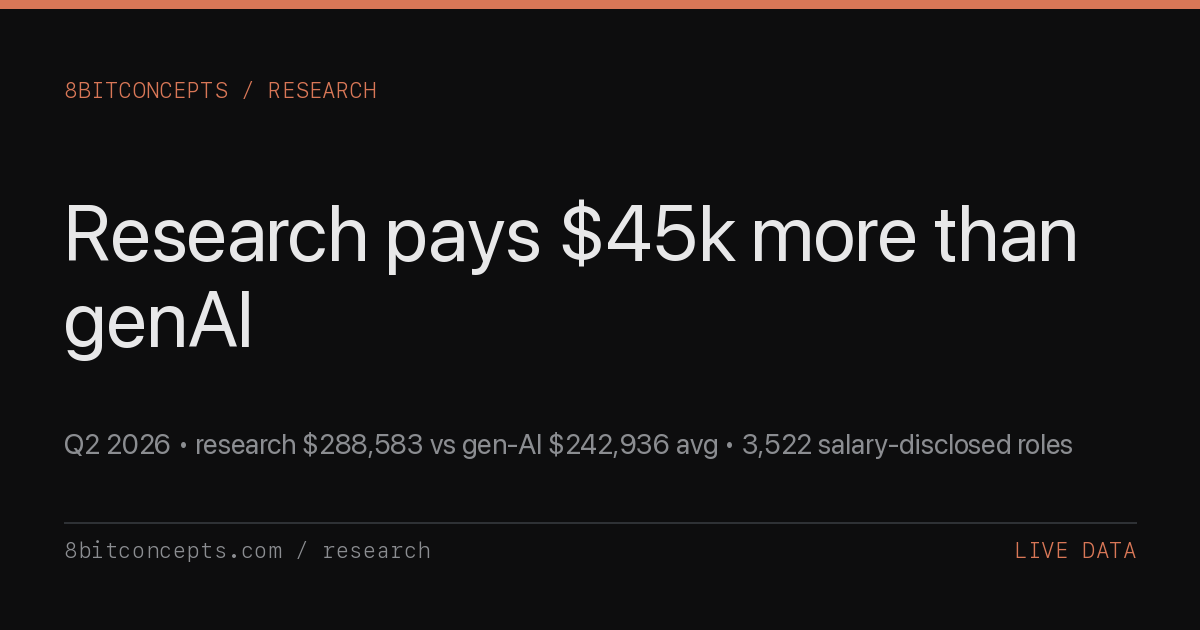
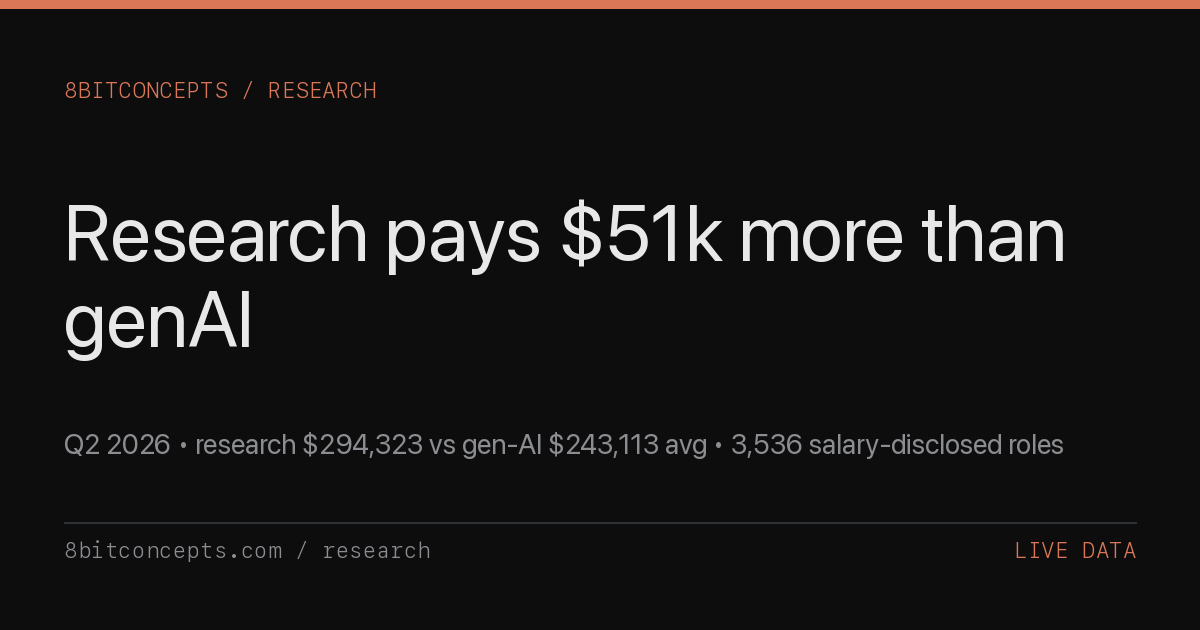
compensation-by-skill: auto-regenerate 2026-07-27

diff --git a/research/q2-2026-ai-compensation-by-skill.html b/research/q2-2026-ai-compensation-by-skill.html
@@ -5,11 +5,11 @@
   <meta name="viewport" content="width=device-width, initial-scale=1.0" />
   <meta name="referrer" content="strict-origin-when-cross-origin" />
   <meta name="color-scheme" content="dark light" />
-  <meta name="last-updated" content="2026-07-20" />
+  <meta name="last-updated" content="2026-07-27" />
   <title>Q2 2026 AI Engineering Compensation by Skill -- 8bitconcepts</title>
-  <meta name="description" content="Live AI engineering compensation by skill: top-paying tags, most in-demand tags, sweet-spot skills, salary by experience level, distribution across 3,522 salary-disclosed roles. Median $220,000. Auto-regenerated weekly from aidevboard.com API." />
+  <meta name="description" content="Live AI engineering compensation by skill: top-paying tags, most in-demand tags, sweet-spot skills, salary by experience level, distribution across 3,536 salary-disclosed roles. Median $220,000. Auto-regenerated weekly from aidevboard.com API." />
   <meta property="og:title" content="Q2 2026 AI Engineering Compensation by Skill -- 8bitconcepts" />
-  <meta property="og:description" content="Top-paying AI skill: research at $288,583. Most in-demand: agents (2,822 roles). Median $220,000. Sweet-spot tags where high demand meets high pay. Live data, 2026-07-20." />
+  <meta property="og:description" content="Top-paying AI skill: research at $294,323. Most in-demand: agents (2,837 roles). Median $220,000. Sweet-spot tags where high demand meets high pay. Live data, 2026-07-27." />
   <meta property="og:type" content="article" />
   <meta property="og:url" content="https://8bitconcepts.com/research/q2-2026-ai-compensation-by-skill.html" />
   <meta property="og:image" content="https://8bitconcepts.com/research/og/q2-2026-ai-compensation-by-skill.png" />
@@ -17,7 +17,7 @@
   <meta property="og:image:height" content="630" />
   <meta name="twitter:card" content="summary_large_image" />
   <meta name="twitter:title" content="Q2 2026 AI Engineering Compensation by Skill" />
-  <meta name="twitter:description" content="AI engineering compensation by skill: top-paying = $288,583 (research). Median $220,000 across 3,522 salary-disclosed roles. 2026-07-20." />
+  <meta name="twitter:description" content="AI engineering compensation by skill: top-paying = $294,323 (research). Median $220,000 across 3,536 salary-disclosed roles. 2026-07-27." />
   <meta name="twitter:image" content="https://8bitconcepts.com/research/og/q2-2026-ai-compensation-by-skill.png" />
   <link rel="canonical" href="https://8bitconcepts.com/research/q2-2026-ai-compensation-by-skill.html" />
   <link rel="preconnect" href="https://fonts.googleapis.com" />
@@ -434,10 +434,10 @@
     "@context": "https://schema.org",
     "@type": "Article",
     "headline": "Q2 2026 AI Engineering Compensation by Skill",
-    "description": "Live AI engineering compensation analysis from aidevboard.com: top-paying skill tags, most in-demand tags, sweet-spot skills (high demand + high pay), salary distribution, and experience-level breakdown across 3,522 salary-disclosed roles.",
+    "description": "Live AI engineering compensation analysis from aidevboard.com: top-paying skill tags, most in-demand tags, sweet-spot skills (high demand + high pay), salary distribution, and experience-level breakdown across 3,536 salary-disclosed roles.",
     "url": "https://8bitconcepts.com/research/q2-2026-ai-compensation-by-skill.html",
     "datePublished": "2026-04-17",
-    "dateModified": "2026-07-20",
+    "dateModified": "2026-07-27",
     "author": {"@type": "Organization", "name": "8bitconcepts", "url": "https://8bitconcepts.com"},
     "publisher": {"@type": "Organization", "name": "8bitconcepts", "url": "https://8bitconcepts.com"},
     "image": "https://8bitconcepts.com/research/og/q2-2026-ai-compensation-by-skill.png",
@@ -477,10 +477,10 @@
 
     <h1>Q2 2026 AI Engineering Compensation by Skill</h1>
 
-    <p class="subtitle">Live compensation data from 3,522 salary-disclosed AI/ML engineering roles across 500 companies, as of 2026-07-20. The top-paying skill tags out-earn the most in-demand tags by tens of thousands per year. Live data pulled from <a href="https://aidevboard.com/api/v1/stats">aidevboard.com/api/v1/stats</a>.</p>
+    <p class="subtitle">Live compensation data from 3,536 salary-disclosed AI/ML engineering roles across 504 companies, as of 2026-07-27. The top-paying skill tags out-earn the most in-demand tags by tens of thousands per year. Live data pulled from <a href="https://aidevboard.com/api/v1/stats">aidevboard.com/api/v1/stats</a>.</p>
 
     <div class="meta">
-      <span class="meta-date">2026-07-20</span>
+      <span class="meta-date">2026-07-27</span>
       <span class="meta-tag">Live Data</span>
       <span class="meta-read">~800 words</span>
     </div>
@@ -489,20 +489,20 @@
 
       <h2>Executive summary</h2>
 
-      <p>Research roles pay a $45k premium over generative-AI roles ($288,583 vs $242,936 avg), even though generative-AI has roughly 2.3x more openings (1,738 vs 764). Here's what the 3,522-posting compensation dataset tells us about where AI engineering compensation is actually flowing &mdash; and where agents and LLMs sit in the middle.</p>
+      <p>Research roles pay a $51k premium over generative-AI roles ($294,323 vs $243,113 avg), even though generative-AI has roughly 2.2x more openings (1,733 vs 775). Here's what the 3,536-posting compensation dataset tells us about where AI engineering compensation is actually flowing &mdash; and where agents and LLMs sit in the middle.</p>
 
       <div class="stat-row">
         <div class="stat-box">
-          <div class="stat-num">$288,583</div>
+          <div class="stat-num">$294,323</div>
           <div class="stat-label">avg salary for <code>research</code> &mdash; the top-paying skill tag with 100+ roles</div>
         </div>
         <div class="stat-box">
-          <div class="stat-num">2,822</div>
+          <div class="stat-num">2,837</div>
           <div class="stat-label">roles tagged <code>agents</code> &mdash; the most in-demand skill in the index</div>
         </div>
         <div class="stat-box">
           <div class="stat-num">$220,000</div>
-          <div class="stat-label">median advertised salary across 3,522 salary-disclosed roles</div>
+          <div class="stat-label">median advertised salary across 3,536 salary-disclosed roles</div>
         </div>
       </div>
 
@@ -519,16 +519,16 @@
           </tr>
         </thead>
         <tbody>
-          <tr><td><code>research</code></td><td class="num">764</td><td class="num">$288,583</td></tr>
-          <tr><td><code>reinforcement-learning</code></td><td class="num">546</td><td class="num">$282,232</td></tr>
-          <tr><td><code>search</code></td><td class="num">686</td><td class="num">$279,229</td></tr>
-          <tr><td><code>distributed-systems</code></td><td class="num">1,488</td><td class="num">$263,911</td></tr>
-          <tr><td><code>infrastructure</code></td><td class="num">644</td><td class="num">$256,154</td></tr>
-          <tr><td><code>pytorch</code></td><td class="num">1,013</td><td class="num">$252,477</td></tr>
-          <tr><td><code>fine-tuning</code></td><td class="num">832</td><td class="num">$251,136</td></tr>
-          <tr><td><code>llm</code></td><td class="num">2,652</td><td class="num">$248,704</td></tr>
-          <tr><td><code>gpu</code></td><td class="num">558</td><td class="num">$245,625</td></tr>
-          <tr><td><code>deep-learning</code></td><td class="num">769</td><td class="num">$244,202</td></tr>
+          <tr><td><code>research</code></td><td class="num">775</td><td class="num">$294,323</td></tr>
+          <tr><td><code>search</code></td><td class="num">660</td><td class="num">$285,335</td></tr>
+          <tr><td><code>reinforcement-learning</code></td><td class="num">546</td><td class="num">$282,688</td></tr>
+          <tr><td><code>distributed-systems</code></td><td class="num">1,487</td><td class="num">$266,998</td></tr>
+          <tr><td><code>infrastructure</code></td><td class="num">647</td><td class="num">$262,107</td></tr>
+          <tr><td><code>pytorch</code></td><td class="num">1,016</td><td class="num">$254,913</td></tr>
+          <tr><td><code>fine-tuning</code></td><td class="num">874</td><td class="num">$254,452</td></tr>
+          <tr><td><code>llm</code></td><td class="num">2,661</td><td class="num">$250,392</td></tr>
+          <tr><td><code>tensorflow</code></td><td class="num">451</td><td class="num">$245,417</td></tr>
+          <tr><td><code>deep-learning</code></td><td class="num">763</td><td class="num">$245,381</td></tr>
         </tbody>
       </table>
 
@@ -545,24 +545,24 @@
           </tr>
         </thead>
         <tbody>
-          <tr><td><code>agents</code></td><td class="num">2,822</td><td class="num">$233,694</td></tr>
-          <tr><td><code>llm</code></td><td class="num">2,652</td><td class="num">$248,704</td></tr>
-          <tr><td><code>generative-ai</code></td><td class="num">1,738</td><td class="num">$242,936</td></tr>
-          <tr><td><code>cloud</code></td><td class="num">1,628</td><td class="num">$229,253</td></tr>
-          <tr><td><code>distributed-systems</code></td><td class="num">1,488</td><td class="num">$263,911</td></tr>
-          <tr><td><code>payments</code></td><td class="num">1,371</td><td class="num">$207,989</td></tr>
-          <tr><td><code>data-pipeline</code></td><td class="num">1,223</td><td class="num">$240,184</td></tr>
-          <tr><td><code>healthcare</code></td><td class="num">1,191</td><td class="num">$212,969</td></tr>
-          <tr><td><code>robotics</code></td><td class="num">1,092</td><td class="num">$212,738</td></tr>
-          <tr><td><code>pytorch</code></td><td class="num">1,013</td><td class="num">$252,477</td></tr>
+          <tr><td><code>agents</code></td><td class="num">2,837</td><td class="num">$233,536</td></tr>
+          <tr><td><code>llm</code></td><td class="num">2,661</td><td class="num">$250,392</td></tr>
+          <tr><td><code>generative-ai</code></td><td class="num">1,733</td><td class="num">$243,113</td></tr>
+          <tr><td><code>cloud</code></td><td class="num">1,658</td><td class="num">$229,847</td></tr>
+          <tr><td><code>distributed-systems</code></td><td class="num">1,487</td><td class="num">$266,998</td></tr>
+          <tr><td><code>payments</code></td><td class="num">1,455</td><td class="num">$210,667</td></tr>
+          <tr><td><code>data-pipeline</code></td><td class="num">1,240</td><td class="num">$238,862</td></tr>
+          <tr><td><code>healthcare</code></td><td class="num">1,210</td><td class="num">$215,247</td></tr>
+          <tr><td><code>robotics</code></td><td class="num">1,105</td><td class="num">$214,345</td></tr>
+          <tr><td><code>pytorch</code></td><td class="num">1,016</td><td class="num">$254,913</td></tr>
         </tbody>
       </table>
 
       <h2>The gap: where demand meets pay</h2>
 
-      <p><strong>Sweet-spot tags &mdash; high demand <em>and</em> high pay.</strong> <code>llm</code> (2,652 roles, $248,704 avg), <code>generative-ai</code> (1,738 roles, $242,936 avg), <code>distributed-systems</code> (1,488 roles, $263,911 avg), <code>pytorch</code> (1,013 roles, $252,477 avg), <code>fine-tuning</code> (832 roles, $251,136 avg). These are the skills the market is willing to pay above-median for <em>and</em> hire above-median volumes of. If you're choosing what to learn next, this is where leverage compounds.</p>
+      <p><strong>Sweet-spot tags &mdash; high demand <em>and</em> high pay.</strong> <code>llm</code> (2,661 roles, $250,392 avg), <code>generative-ai</code> (1,733 roles, $243,113 avg), <code>distributed-systems</code> (1,487 roles, $266,998 avg), <code>pytorch</code> (1,016 roles, $254,913 avg), <code>fine-tuning</code> (874 roles, $254,452 avg). These are the skills the market is willing to pay above-median for <em>and</em> hire above-median volumes of. If you're choosing what to learn next, this is where leverage compounds.</p>
 
-      <p><strong>High demand, lower pay.</strong> <code>agents</code> (2,822 roles, $233,694 avg), <code>cloud</code> (1,628 roles, $229,253 avg), <code>payments</code> (1,371 roles, $207,989 avg), <code>data-pipeline</code> (1,223 roles, $240,184 avg), <code>healthcare</code> (1,191 roles, $212,969 avg). These tags are popular in job postings but compensation has not kept pace &mdash; usually because the labor pool is large or the work is more easily commoditized. Volume here doesn't translate to negotiating leverage.</p>
+      <p><strong>High demand, lower pay.</strong> <code>agents</code> (2,837 roles, $233,536 avg), <code>cloud</code> (1,658 roles, $229,847 avg), <code>payments</code> (1,455 roles, $210,667 avg), <code>data-pipeline</code> (1,240 roles, $238,862 avg), <code>healthcare</code> (1,210 roles, $215,247 avg). These tags are popular in job postings but compensation has not kept pace &mdash; usually because the labor pool is large or the work is more easily commoditized. Volume here doesn't translate to negotiating leverage.</p>
 
       <div class="callout">
         <p>The most useful frame for a job seeker isn't "highest paying" or "most posted." It's the intersection &mdash; tags where both axes are above the median. That's where you have negotiating leverage <em>and</em> a healthy supply of openings to negotiate against.</p>
@@ -570,7 +570,7 @@
 
       <h2>By experience level</h2>
 
-      <p>The ladder skews heavily senior. Senior, lead, and principal roles account for 6,224 of 9,065 classified roles &mdash; 68.7% of the index. Junior makes up just 576 (6.4%). The salary endpoint reports a single weighted median of $220,000 (p25 $180,000, p75 $270,000, average $232,155); the heavy senior weighting is the main reason that median sits well above $200k. <em>Note: the public <code>/api/v1/stats</code> endpoint exposes counts by level but not salary by level &mdash; to derive average salary per band, query the <a href="https://aidevboard.com/api/v1/jobs">/api/v1/jobs</a> endpoint with <code>level=</code> filters and aggregate locally.</em></p>
+      <p>The ladder skews heavily senior. Senior, lead, and principal roles account for 6,266 of 9,148 classified roles &mdash; 68.5% of the index. Junior makes up just 565 (6.2%). The salary endpoint reports a single weighted median of $220,000 (p25 $180,000, p75 $270,000, average $232,885); the heavy senior weighting is the main reason that median sits well above $200k. <em>Note: the public <code>/api/v1/stats</code> endpoint exposes counts by level but not salary by level &mdash; to derive average salary per band, query the <a href="https://aidevboard.com/api/v1/jobs">/api/v1/jobs</a> endpoint with <code>level=</code> filters and aggregate locally.</em></p>
 
       <table class="data-table">
         <thead>
@@ -581,17 +581,17 @@
           </tr>
         </thead>
         <tbody>
-          <tr><td>Junior</td><td class="num">576</td><td class="num">6.4%</td></tr>
-          <tr><td>Mid</td><td class="num">2,265</td><td class="num">25.0%</td></tr>
-          <tr><td>Senior</td><td class="num">3,074</td><td class="num">33.9%</td></tr>
-          <tr><td>Lead</td><td class="num">2,527</td><td class="num">27.9%</td></tr>
-          <tr><td>Principal</td><td class="num">623</td><td class="num">6.9%</td></tr>
+          <tr><td>Junior</td><td class="num">565</td><td class="num">6.2%</td></tr>
+          <tr><td>Mid</td><td class="num">2,317</td><td class="num">25.3%</td></tr>
+          <tr><td>Senior</td><td class="num">3,095</td><td class="num">33.8%</td></tr>
+          <tr><td>Lead</td><td class="num">2,545</td><td class="num">27.8%</td></tr>
+          <tr><td>Principal</td><td class="num">626</td><td class="num">6.8%</td></tr>
         </tbody>
       </table>
 
       <h2>Salary distribution</h2>
 
-      <p>Of the 3,522 roles publishing salary, 2,583 (73.3%) fall inside the $150k-$300k core band &mdash; that's where the bulk of AI engineering compensation lives. 594 roles (16.9%) clear $300k, and 345 (9.8%) sit below $150k. The distribution is right-skewed: a meaningful tail above $400k (161 roles) pulls the average $232,155 above the median $220,000.</p>
+      <p>Of the 3,536 roles publishing salary, 2,588 (73.2%) fall inside the $150k-$300k core band &mdash; that's where the bulk of AI engineering compensation lives. 595 roles (16.8%) clear $300k, and 353 (10.0%) sit below $150k. The distribution is right-skewed: a meaningful tail above $400k (170 roles) pulls the average $232,885 above the median $220,000.</p>
 
       <table class="data-table">
         <thead>
@@ -602,23 +602,23 @@
           </tr>
         </thead>
         <tbody>
-          <tr><td>Under $100k</td><td class="num">67</td><td class="num">1.9%</td></tr>
-          <tr><td>$100k-$150k</td><td class="num">278</td><td class="num">7.9%</td></tr>
-          <tr><td>$150k-$200k</td><td class="num">938</td><td class="num">26.6%</td></tr>
-          <tr><td>$200k-$250k</td><td class="num">1,065</td><td class="num">30.2%</td></tr>
-          <tr><td>$250k-$300k</td><td class="num">580</td><td class="num">16.5%</td></tr>
-          <tr><td>$300k-$400k</td><td class="num">433</td><td class="num">12.3%</td></tr>
-          <tr><td>$400k+</td><td class="num">161</td><td class="num">4.6%</td></tr>
+          <tr><td>Under $100k</td><td class="num">66</td><td class="num">1.9%</td></tr>
+          <tr><td>$100k-$150k</td><td class="num">287</td><td class="num">8.1%</td></tr>
+          <tr><td>$150k-$200k</td><td class="num">934</td><td class="num">26.4%</td></tr>
+          <tr><td>$200k-$250k</td><td class="num">1,057</td><td class="num">29.9%</td></tr>
+          <tr><td>$250k-$300k</td><td class="num">597</td><td class="num">16.9%</td></tr>
+          <tr><td>$300k-$400k</td><td class="num">425</td><td class="num">12.0%</td></tr>
+          <tr><td>$400k+</td><td class="num">170</td><td class="num">4.8%</td></tr>
         </tbody>
       </table>
 
       <h2>Practical takeaway</h2>
 
-      <p><strong>If you are choosing what to learn next.</strong> The pure-pay leaderboard (<code>research</code>, <code>reinforcement-learning</code>, <code>search</code>) clusters around research and infrastructure work that takes years to develop. The high-leverage practical picks are the sweet-spot tags &mdash; <code>llm</code>, <code>generative-ai</code>, <code>distributed-systems</code> &mdash; where demand and pay both sit above the index median. Generic <code>machine-learning</code> and <code>data-science</code> are not on that list, even though they remain common job titles. The market is rewarding specificity.</p>
+      <p><strong>If you are choosing what to learn next.</strong> The pure-pay leaderboard (<code>research</code>, <code>search</code>, <code>reinforcement-learning</code>) clusters around research and infrastructure work that takes years to develop. The high-leverage practical picks are the sweet-spot tags &mdash; <code>llm</code>, <code>generative-ai</code>, <code>distributed-systems</code> &mdash; where demand and pay both sit above the index median. Generic <code>machine-learning</code> and <code>data-science</code> are not on that list, even though they remain common job titles. The market is rewarding specificity.</p>
 
       <h2>Methodology</h2>
 
-      <p>This note is generated from the live <a href="https://aidevboard.com/api/v1/stats">aidevboard.com/api/v1/stats</a> endpoint &mdash; a public, unauthenticated JSON API. The underlying index scrapes 560+ ATS sources (Ashby, Greenhouse, Lever, Workday, custom careers pages) on a daily cron, deduplicates by (company, title, location), classifies each role into a normalized skill-tag set with a rules-based parser, and stores employer-advertised salary ranges where present. Of 9,065 roles in the index, 3,522 disclose a salary range &mdash; the rest are silently excluded from the salary tables. <strong>Caveats</strong>: (1) salaries are advertised midpoints, not actual offers; (2) US-disclosure laws drive the highest disclosure rates so the dataset over-represents California, New York, Washington, and Colorado; (3) tag averages assume a role with multiple tags contributes its full salary to each tag's average; (4) the 100-role minimum on the top-paying table filters out small-n noise. This page auto-regenerates weekly.</p>
+      <p>This note is generated from the live <a href="https://aidevboard.com/api/v1/stats">aidevboard.com/api/v1/stats</a> endpoint &mdash; a public, unauthenticated JSON API. The underlying index scrapes 560+ ATS sources (Ashby, Greenhouse, Lever, Workday, custom careers pages) on a daily cron, deduplicates by (company, title, location), classifies each role into a normalized skill-tag set with a rules-based parser, and stores employer-advertised salary ranges where present. Of 9,148 roles in the index, 3,536 disclose a salary range &mdash; the rest are silently excluded from the salary tables. <strong>Caveats</strong>: (1) salaries are advertised midpoints, not actual offers; (2) US-disclosure laws drive the highest disclosure rates so the dataset over-represents California, New York, Washington, and Colorado; (3) tag averages assume a role with multiple tags contributes its full salary to each tag's average; (4) the 100-role minimum on the top-paying table filters out small-n noise. This page auto-regenerates weekly.</p>
 
       <p><strong>Download raw data:</strong> The compensation-by-skill dataset is mirrored as a public gist &mdash; <a href="https://gist.githubusercontent.com/unitedideas/b1b80d11f0f187f93fd6b1a599df418e/raw/ai-compensation-by-skill.csv">CSV</a> &middot; <a href="https://gist.githubusercontent.com/unitedideas/b1b80d11f0f187f93fd6b1a599df418e/raw/ai-compensation-by-skill.md">Markdown</a> &middot; <a href="https://gist.github.com/unitedideas/b1b80d11f0f187f93fd6b1a599df418e">view on GitHub</a>. Auto-updated every weekly regeneration; canonical raw URLs are stable across revisions.</p>
 
@@ -668,9 +668,9 @@
     <div class="footnotes">
       <h4>Sources</h4>
       <ol>
-        <li>AI Dev Jobs &mdash; <a href="https://aidevboard.com/api/v1/stats">/api/v1/stats</a>, pulled 2026-07-20T15:30:01Z. Public unauthenticated endpoint. Backing index: 9,065 roles / 500 companies / 3,522 salary-disclosed.</li>
+        <li>AI Dev Jobs &mdash; <a href="https://aidevboard.com/api/v1/stats">/api/v1/stats</a>, pulled 2026-07-27T15:30:05Z. Public unauthenticated endpoint. Backing index: 9,148 roles / 504 companies / 3,536 salary-disclosed.</li>
         <li>AI Dev Jobs &mdash; <a href="https://aidevboard.com/api/v1/jobs">/api/v1/jobs</a>, paginated job-level endpoint with <code>level=</code> and <code>tag=</code> filters for deeper aggregation.</li>
-        <li>Salary figures are employer-advertised midpoints from public ATS feeds. Of 9,065 indexed roles, 3,522 disclose a salary range (driven heavily by US pay-transparency laws).</li>
+        <li>Salary figures are employer-advertised midpoints from public ATS feeds. Of 9,148 indexed roles, 3,536 disclose a salary range (driven heavily by US pay-transparency laws).</li>
         <li>Tag averages: a role with multiple tags contributes its full salary to each tag's average (no fractional weighting). The 100-role minimum on the top-paying table filters out small-sample noise; the most-in-demand table has no minimum.</li>
       </ol>
     </div>
